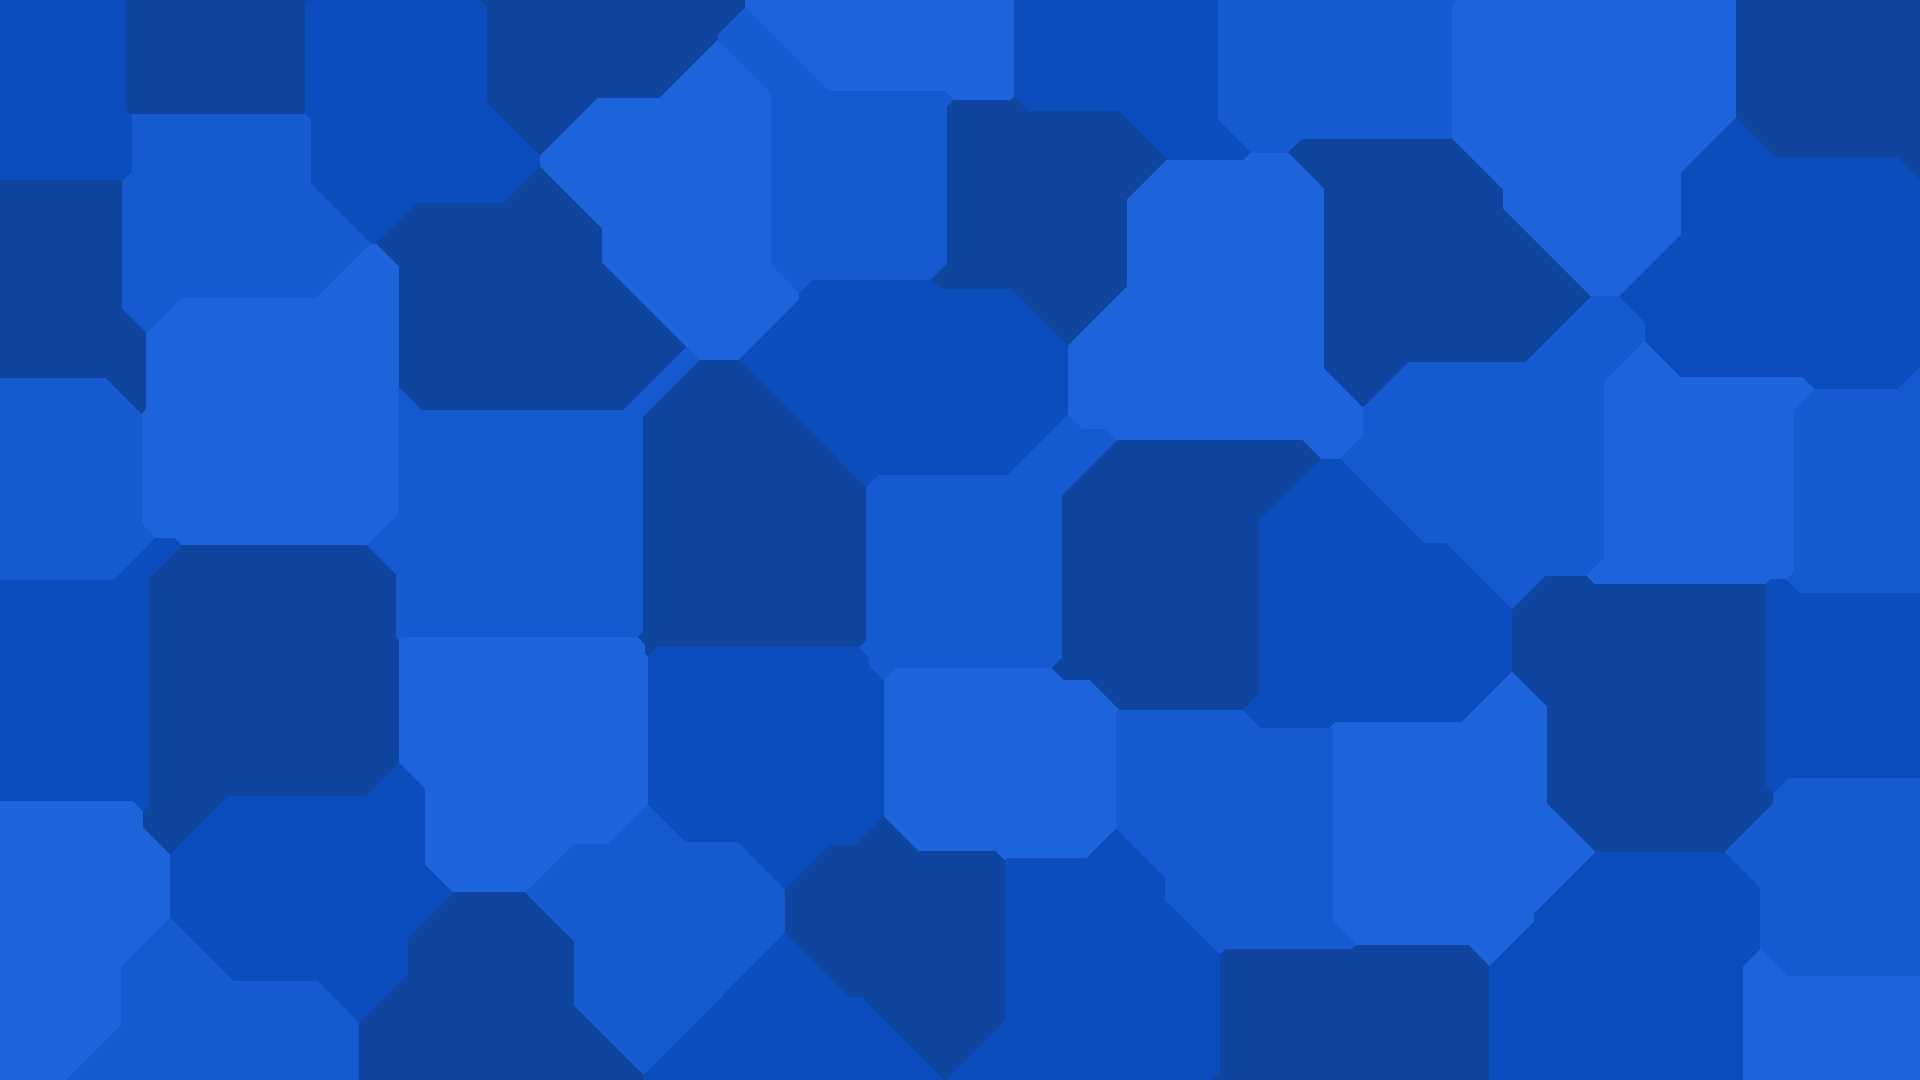
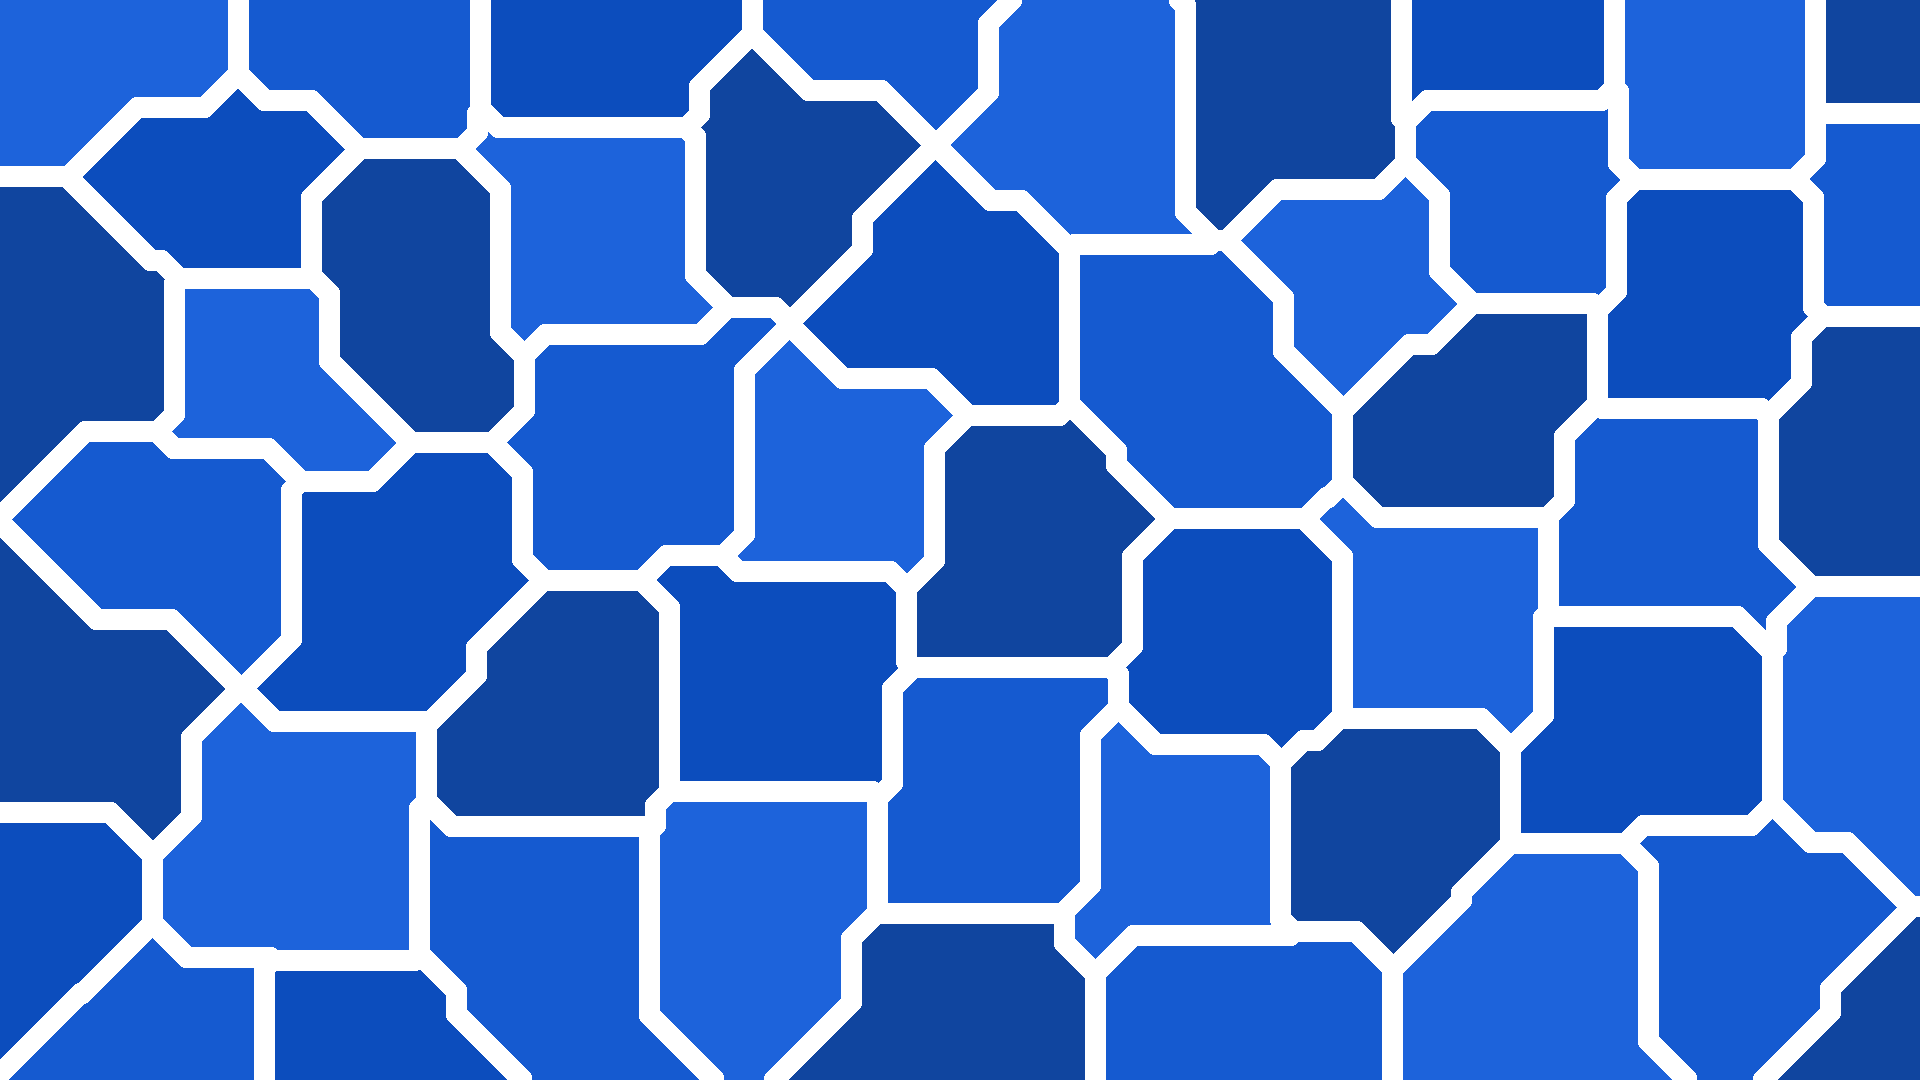
adjust example 4

diff --git a/examples/4.py b/examples/4.py
@@ -6,4 +6,5 @@ generate(
     colors = ["#1d63db", "#155ad0", "#0c4dbd", "#10459f"],
     no_same_adjacent_colors = True,
     distance_algorithm = DistanceAlgorithm.chebyshev,
+    border_size = 20,
 )

diff --git a/README.md b/README.md
@@ -78,6 +78,7 @@ generate(
     colors = ["#1d63db", "#155ad0", "#0c4dbd", "#10459f"],
     no_same_adjacent_colors = True,
     distance_algorithm = DistanceAlgorithm.chebyshev,
+    border_size = 20,
 )
 ```
 
